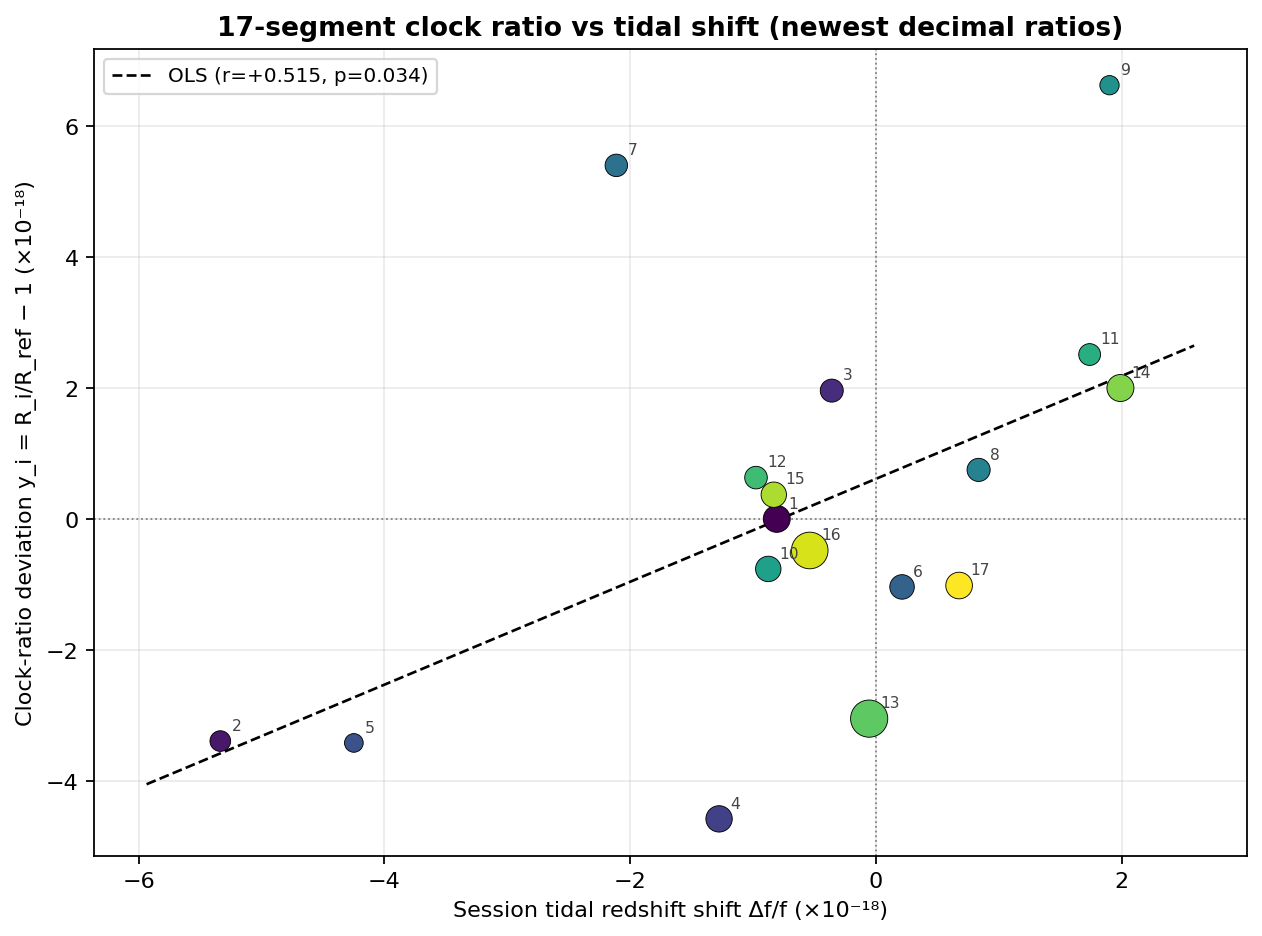
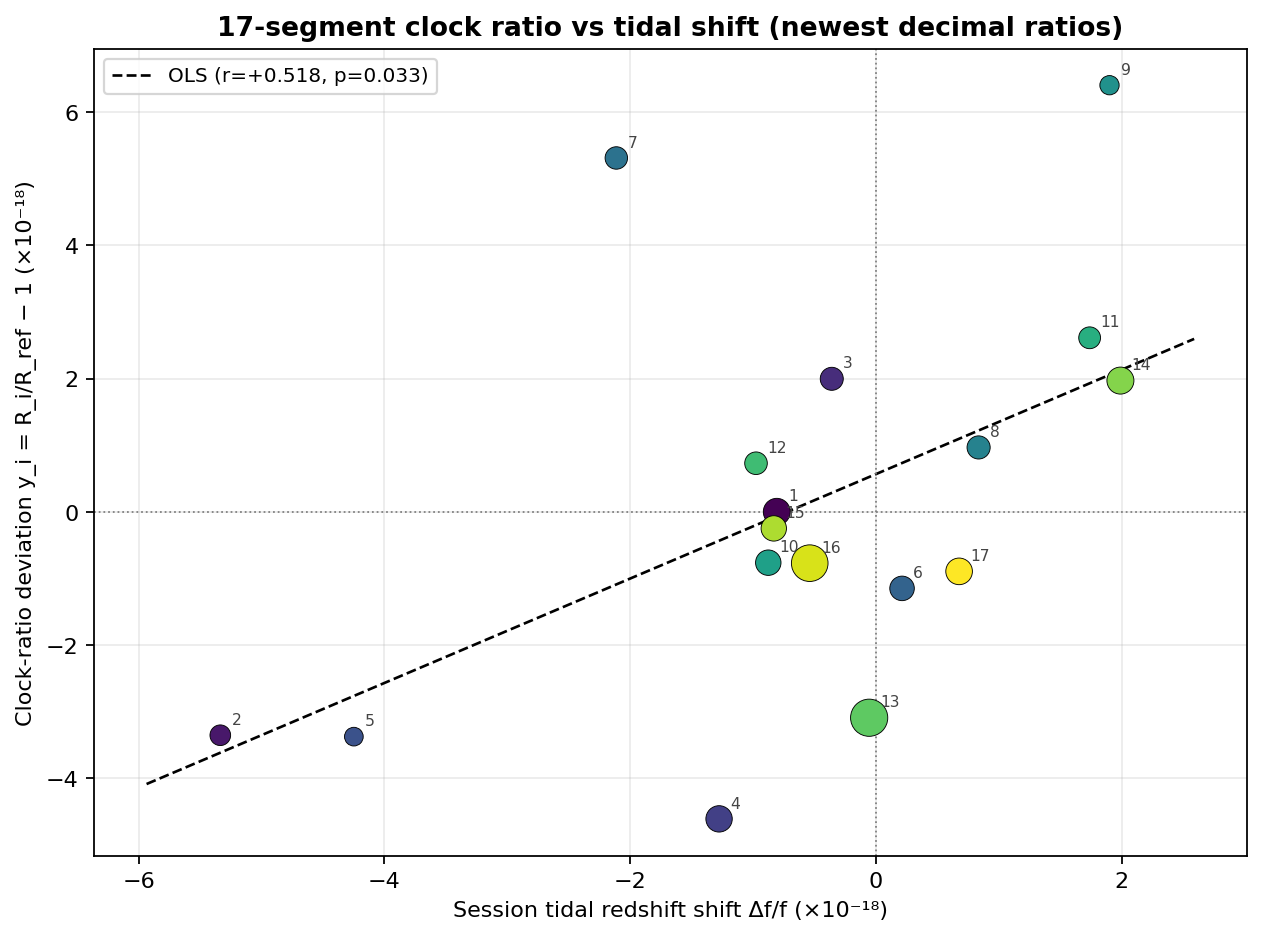
Apply endpoint screening (1% peak-to-peak) to clock-ratio calc and update report/correlation

diff --git a/clock_ratio/compute_ratio.py b/clock_ratio/compute_ratio.py
@@ -138,6 +138,29 @@ def longest_valid_span(valid):
     return int(starts[i]), int(stops[i] - 1)
 
 
+def endpoint_screen(x):
+    """Trim both ends of a jump-free run per the PDF rule.
+
+    A point is dropped when its distance from the run's centre exceeds 1% of
+    the run's peak-to-peak; the check then continues to the next/previous
+    point. Returns (trimmed_x, n_removed_start, n_removed_end).
+    """
+    center = np.median(x)
+    peak2peak = x.max() - x.min()
+    thr = peak2peak * 0.01
+
+    lo, hi = 0, len(x) - 1
+    n_start = 0
+    while lo <= hi and abs(x[lo] - center) > thr:
+        lo += 1
+        n_start += 1
+    n_end = 0
+    while hi >= lo and abs(x[hi] - center) > thr:
+        hi -= 1
+        n_end += 1
+    return x[lo: hi + 1], n_start, n_end
+
+
 def load_all_beat():
     files = sorted(DATA_DIR.glob("Freq_B_2_2606*.txt")) + sorted(
         DATA_DIR.glob("Freq_B_2_2607*.txt")
@@ -209,6 +232,11 @@ def main():
             continue
         d_long = b_seg[span[0]: span[1] + 1]
 
+        d_long, rem_start, rem_end = endpoint_screen(d_long)
+        if len(d_long) == 0:
+            results.append({"group": kk + 1, "R": None, "R_str": "nan"})
+            continue
+
         mean_dm = float(d_long.mean() - m)
         shift_k = SHIFT_A[kk]
         mean_dm_dec = to_dec(d_long.mean()) - m_dec
@@ -220,6 +248,8 @@ def main():
             "t_start": str(t_seg[span[0]]),
             "t_end": str(t_seg[span[1]]),
             "n_valid": len(d_long),
+            "rem_start": rem_start,
+            "rem_end": rem_end,
             "mean_dm_hz": mean_dm,
             "shift_a": shift_k,
             "R": R,
@@ -236,25 +266,27 @@ def main():
         w = csv.writer(f)
         w.writerow([
             "group", "t_start_beijing", "t_end_beijing", "n_valid",
-            "mean_dm_hz", "shift_a", "YbSr_R", "y_i_1e18",
+            "rem_start", "rem_end", "mean_dm_hz", "shift_a", "YbSr_R", "y_i_1e18",
         ])
         for i, r in enumerate(results):
             if r["R"] is None:
-                w.writerow([r["group"], "", "", "", "", "", "", ""])
+                w.writerow([r["group"], "", "", "", "", "", "", "", "", ""])
             else:
                 w.writerow([
                     r["group"], r["t_start"], r["t_end"], r["n_valid"],
+                    r["rem_start"], r["rem_end"],
                     f"{r['mean_dm_hz']:.6f}", f"{r['shift_a']:.6e}",
                     r["R_str"], format(y_i[i], ".7f"),
                 ])
 
-    print(f"{'组':>3} {'有效点':>7} {'mean_dm[Hz]':>13} {'shift_a':>12} "
+    print(f"{'组':>3} {'有效点':>7} {'削起/终':>9} {'mean_dm[Hz]':>13} {'shift_a':>12} "
           f"{'Yb/Sr R':>24} {'y_i(×1e-18)':>12}")
     for i, r in enumerate(results):
         if r["R"] is None:
             print(f"{r['group']:>3} (无数据)")
         else:
-            print(f"{r['group']:>3} {r['n_valid']:>7} {r['mean_dm_hz']:>+13.4f} "
+            print(f"{r['group']:>3} {r['n_valid']:>7} "
+                  f"{r['rem_start']},{r['rem_end']:>2} {r['mean_dm_hz']:>+13.4f} "
                   f"{r['shift_a']:>+12.3e} {r['R_str'][:24]:>24} {y_i[i]:>+12.5f}")
 
     summary_path = OUT_DIR / "ratio_17seg_summary.csv"
@@ -263,7 +295,7 @@ def main():
         w.writerow(["field", "value"])
         w.writerow(["R_ref", str(R_ref)])
         w.writerow(["WLS_YbSr_experiment", "1.2075070393433377213"])
-        w.writerow(["note", "computed with decimal 80-digit arithmetic to preserve e-20 level segment differences"])
+        w.writerow(["note", "endpoint screening (1% peak-to-peak) applied; decimal 80-digit arithmetic"])
 
     print(f"\nWrote {csv_path}")
     print(f"Wrote {summary_path}")
